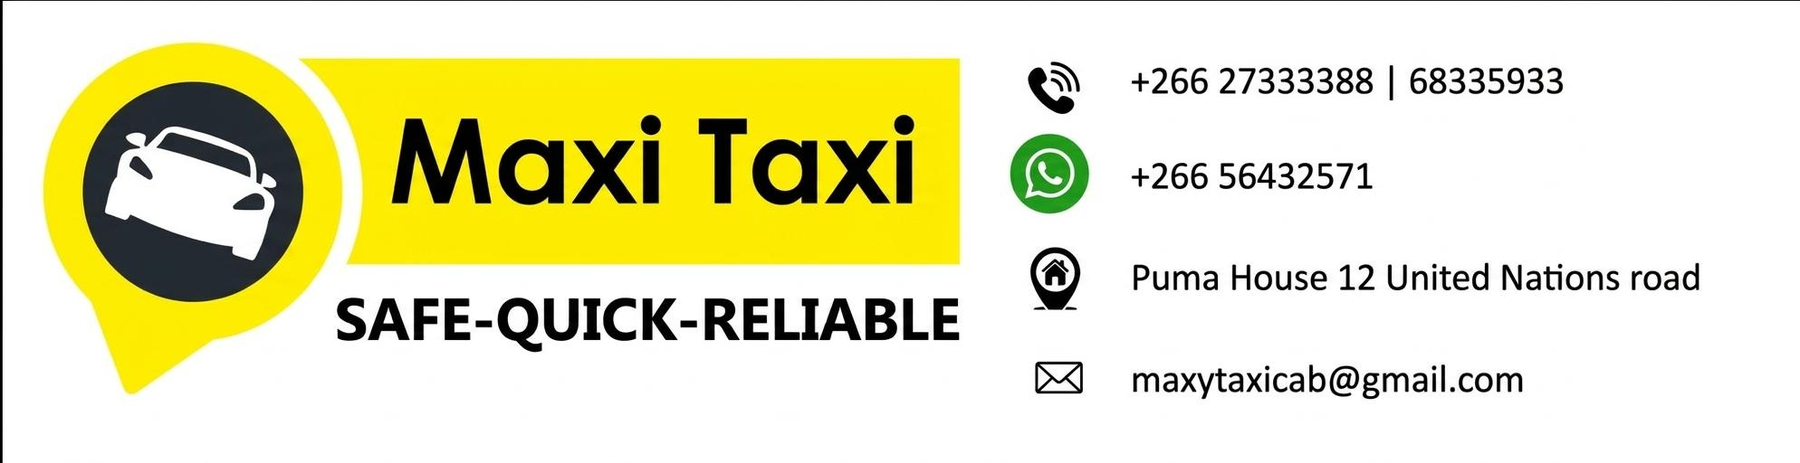
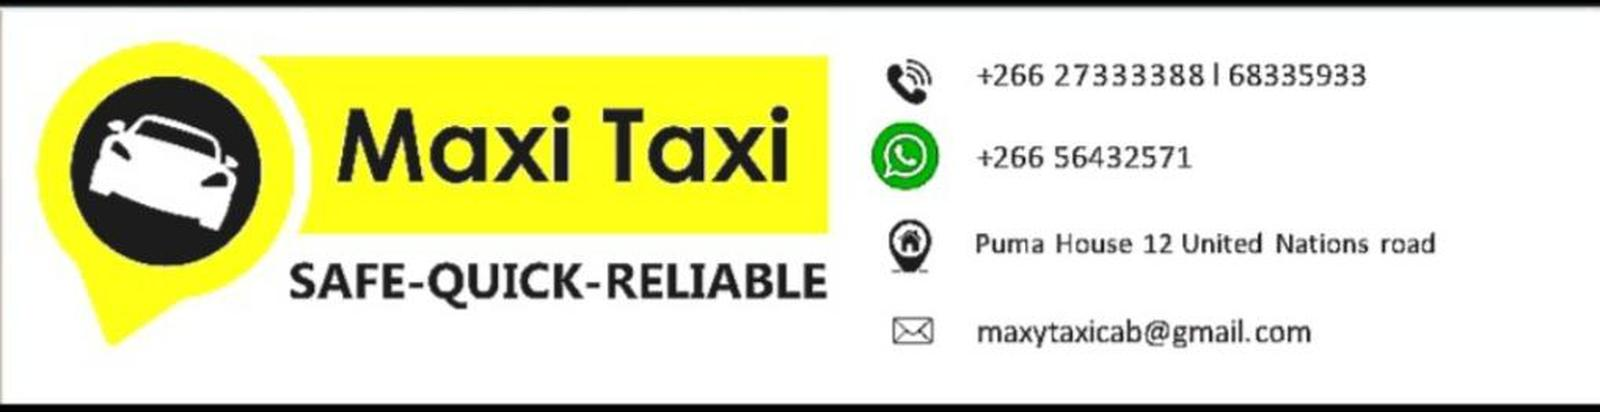
Add files via upload

diff --git a/app.py b/app.py
@@ -780,53 +780,29 @@ def create_pdf_buffer():
     return buffer
 
 def _pdf_letterhead_elements(styles=None):
-    """
-    Professional letterhead: logo left + contacts right + gold rule only.
-    Built in layout (not a cropped screenshot) so text is never cut off.
-    """
-    styles = styles or getSampleStyleSheet()
+    """Official Maxi Taxi letterhead image + gold line only (no black borders)."""
     elements = []
     base = os.path.dirname(__file__)
-
-    logo_path = None
-    for name in ("logo_clean.png", "logo_transparent.png", "logo_icon.jpg", "logo.jpg"):
-        p = os.path.join(base, name)
-        if os.path.exists(p):
-            logo_path = p
+    for name, w, h in (
+        ("letterhead_header.png", 186*mm, 42*mm),
+        ("letterhead_clean.jpg", 186*mm, 40*mm),
+        ("letterhead_banner.jpg", 186*mm, 36*mm),
+    ):
+        path = os.path.join(base, name)
+        if os.path.exists(path):
+            img = Image(path, width=w, height=h)
+            img.hAlign = "CENTER"
+            elements.append(img)
             break
-
-    contact_style = ParagraphStyle(
-        "ContactR", parent=styles["Normal"], fontSize=8, leading=11,
-        textColor=colors.HexColor("#333333"), alignment=TA_RIGHT,
-    )
-    contacts = Paragraph(
-        "+266 27333388 | 68335933<br/>"
-        "+266 56432571<br/>"
-        "Puma House 12 United Nations road<br/>"
-        "maxytaxicab@gmail.com",
-        contact_style,
-    )
-
-    if logo_path:
-        logo = Image(logo_path, width=72*mm, height=22*mm)
-        logo.hAlign = "LEFT"
-        row = Table([[logo, contacts]], colWidths=[100*mm, 80*mm])
-        row.setStyle(TableStyle([
-            ("VALIGN", (0, 0), (-1, -1), "MIDDLE"),
-            ("LEFTPADDING", (0, 0), (-1, -1), 0),
-            ("RIGHTPADDING", (0, 0), (-1, -1), 0),
-            ("TOPPADDING", (0, 0), (-1, -1), 0),
-            ("BOTTOMPADDING", (0, 0), (-1, -1), 2),
-        ]))
-        elements.append(row)
     else:
-        elements.append(Paragraph("<b>MAXY TAXI</b>", ParagraphStyle(
-            "LH", parent=styles["Heading1"], fontSize=14, alignment=TA_CENTER,
-        )))
-
+        styles = styles or getSampleStyleSheet()
+        elements.append(Paragraph(
+            "<b>MAXY TAXI</b>",
+            ParagraphStyle("LH", parent=styles["Heading1"], fontSize=14, alignment=TA_CENTER),
+        ))
     elements.append(HRFlowable(
-        width="100%", thickness=1.8, color=colors.HexColor("#f5a623"),
-        spaceBefore=2*mm, spaceAfter=4*mm,
+        width="100%", thickness=1.5, color=colors.HexColor("#f5a623"),
+        spaceBefore=1*mm, spaceAfter=4*mm,
     ))
     return elements
 
@@ -860,7 +836,7 @@ def generate_invoice_pdf(invoice, client=None):
     buffer = BytesIO()
     doc = SimpleDocTemplate(buffer, pagesize=A4,
                             rightMargin=12*mm, leftMargin=12*mm,
-                            topMargin=5*mm, bottomMargin=22*mm)
+                            topMargin=5*mm, bottomMargin=34*mm)
     styles = getSampleStyleSheet()
     elements = []
 
@@ -989,10 +965,7 @@ def generate_invoice_pdf(invoice, client=None):
     items_table = Table(items_data, colWidths=[105*mm, 28*mm, 47*mm])
     items_table.setStyle(_pdf_line_table_style())
     elements.append(items_table)
-    elements.append(Spacer(1, 6*mm))
-
-    elements.append(_pdf_banking_box(normal))
-    elements.append(Spacer(1, 6*mm))
+    elements.append(Spacer(1, 8*mm))
     elements.append(Paragraph(
         "Thank you for your Business",
         ParagraphStyle("ThanksInv", parent=styles["Normal"], fontSize=11, alignment=TA_CENTER,
@@ -1000,16 +973,7 @@ def generate_invoice_pdf(invoice, client=None):
     ))
 
     def _draw_inv_footer(canvas, doc_):
-        _pdf_draw_watermark(canvas, doc_)
-        canvas.saveState()
-        page_w, _ = A4
-        canvas.setStrokeColor(colors.HexColor("#f5a623"))
-        canvas.setLineWidth(1.5)
-        canvas.line(15*mm, 14*mm, page_w - 15*mm, 14*mm)
-        canvas.setFont("Helvetica", 8.5)
-        canvas.setFillColor(colors.HexColor("#555555"))
-        canvas.drawCentredString(page_w/2, 8*mm, "Maxi Taxi Transport - Maseru - Invoice")
-        canvas.restoreState()
+        _pdf_draw_page_chrome(canvas, doc_, "Maxi Taxi Transport - Maseru - Invoice")
 
     doc.build(elements, onFirstPage=_draw_inv_footer, onLaterPages=_draw_inv_footer)
     buffer.seek(0)
@@ -1019,7 +983,7 @@ def generate_quotation_pdf(quote, client=None):
     buffer = BytesIO()
     doc = SimpleDocTemplate(buffer, pagesize=A4,
                             rightMargin=12*mm, leftMargin=12*mm,
-                            topMargin=5*mm, bottomMargin=22*mm)
+                            topMargin=5*mm, bottomMargin=34*mm)
     styles = getSampleStyleSheet()
     elements = []
 
@@ -1140,16 +1104,7 @@ def generate_quotation_pdf(quote, client=None):
     ))
 
     def _draw_quote_footer(canvas, doc_):
-        _pdf_draw_watermark(canvas, doc_)
-        canvas.saveState()
-        page_w, _ = A4
-        canvas.setStrokeColor(colors.HexColor("#f5a623"))
-        canvas.setLineWidth(1.5)
-        canvas.line(15*mm, 14*mm, page_w - 15*mm, 14*mm)
-        canvas.setFont("Helvetica", 8.5)
-        canvas.setFillColor(colors.HexColor("#555555"))
-        canvas.drawCentredString(page_w/2, 8*mm, "Maxi Taxi Transport - Maseru - Quotation")
-        canvas.restoreState()
+        _pdf_draw_page_chrome(canvas, doc_, "Maxi Taxi Transport - Maseru - Quotation")
 
     doc.build(elements, onFirstPage=_draw_quote_footer, onLaterPages=_draw_quote_footer)
     buffer.seek(0)
@@ -1157,43 +1112,46 @@ def generate_quotation_pdf(quote, client=None):
 
 
 def _pdf_line_table_style():
-    """Shared professional table style for invoice / quote / receipt."""
+    """Clean table: gold header bar, no grid / no black lines (previous look)."""
     return TableStyle([
-        ("BACKGROUND", (0, 0), (-1, 0), colors.HexColor("#fff8e6")),
+        ("BACKGROUND", (0, 0), (-1, 0), colors.HexColor("#f5a623")),
         ("TEXTCOLOR", (0, 0), (-1, 0), colors.HexColor("#1a1a1a")),
-        ("LINEBELOW", (0, 0), (-1, 0), 1.2, colors.HexColor("#f5a623")),
-        ("BOX", (0, 0), (-1, -1), 0.6, colors.HexColor("#cccccc")),
-        ("LINEBELOW", (0, 1), (-1, -2), 0.5, colors.HexColor("#e0e0e0")),
-        ("BACKGROUND", (0, -1), (-1, -1), colors.HexColor("#fafafa")),
-        ("LINEABOVE", (0, -1), (-1, -1), 1.0, colors.HexColor("#f5a623")),
+        ("FONTNAME", (0, 0), (-1, 0), "Helvetica-Bold"),
+        ("ALIGN", (1, 0), (1, -1), "CENTER"),
+        ("ALIGN", (2, 0), (2, -1), "RIGHT"),
+        ("BACKGROUND", (0, 1), (-1, -2), colors.white),
+        ("BACKGROUND", (0, -1), (-1, -1), colors.white),
         ("TOPPADDING", (0, 0), (-1, -1), 7),
         ("BOTTOMPADDING", (0, 0), (-1, -1), 7),
-        ("LEFTPADDING", (0, 0), (-1, -1), 8),
-        ("RIGHTPADDING", (0, 0), (-1, -1), 8),
+        ("LEFTPADDING", (0, 0), (-1, -1), 6),
+        ("RIGHTPADDING", (0, 0), (-1, -1), 6),
         ("VALIGN", (0, 0), (-1, -1), "MIDDLE"),
+        # intentionally no BOX / no LINEBELOW grid
     ])
 
 
-def _pdf_banking_box(normal):
-    bank_box = Table(
-        [[Paragraph(
-            "<b>Banking details</b><br/>"
-            "Postbank &bull; Acc no 1017866800015 &bull; Branch code 500100<br/>"
-            "Account Name: Maxy Taxi Transport",
-            normal,
-        )]],
-        colWidths=[180*mm],
-    )
-    bank_box.setStyle(TableStyle([
-        ("BACKGROUND", (0, 0), (-1, -1), colors.HexColor("#f9f9f9")),
-        ("LINEBEFORE", (0, 0), (0, -1), 3, colors.HexColor("#f5a623")),
-        ("BOX", (0, 0), (-1, -1), 0.4, colors.HexColor("#e0e0e0")),
-        ("TOPPADDING", (0, 0), (-1, -1), 8),
-        ("BOTTOMPADDING", (0, 0), (-1, -1), 8),
-        ("LEFTPADDING", (0, 0), (-1, -1), 10),
-        ("RIGHTPADDING", (0, 0), (-1, -1), 10),
-    ]))
-    return bank_box
+def _pdf_draw_page_chrome(canvas, doc_, footer_label="Maxi Taxi Transport - Maseru"):
+    """Watermark + banking at bottom + gold footer line only."""
+    _pdf_draw_watermark(canvas, doc_)
+    canvas.saveState()
+    page_w, _ = A4
+    # Banking block near bottom (above gold line)
+    canvas.setFillColor(colors.HexColor("#1a1a1a"))
+    canvas.setFont("Helvetica-Bold", 8)
+    canvas.drawString(15*mm, 28*mm, "Banking details")
+    canvas.setFont("Helvetica", 8)
+    canvas.setFillColor(colors.HexColor("#333333"))
+    canvas.drawString(15*mm, 24*mm, "Postbank  ·  Acc no 1017866800015  ·  Branch 500100  ·  Maxy Taxi Transport")
+    # Gold line only — no black borders
+    canvas.setStrokeColor(colors.HexColor("#f5a623"))
+    canvas.setLineWidth(1.2)
+    canvas.line(15*mm, 18*mm, page_w - 15*mm, 18*mm)
+    canvas.setFont("Helvetica", 8)
+    canvas.setFillColor(colors.HexColor("#555555"))
+    canvas.drawCentredString(page_w/2, 12*mm, footer_label)
+    canvas.setFont("Helvetica", 7)
+    canvas.drawCentredString(page_w/2, 8*mm, "SAFE  ·  QUICK  ·  RELIABLE")
+    canvas.restoreState()
 
 
 def generate_receipt_pdf(receipt):
@@ -1202,7 +1160,7 @@ def generate_receipt_pdf(receipt):
     doc = SimpleDocTemplate(
         buffer, pagesize=A4,
         rightMargin=15*mm, leftMargin=15*mm,
-        topMargin=8*mm, bottomMargin=20*mm,
+        topMargin=8*mm, bottomMargin=34*mm,
     )
     styles = getSampleStyleSheet()
     elements = []
@@ -1283,25 +1241,14 @@ def generate_receipt_pdf(receipt):
     elements.append(tbl)
     elements.append(Spacer(1, 8*mm))
 
-    elements.append(_pdf_banking_box(normal))
-    elements.append(Spacer(1, 10*mm))
-
+    elements.append(Spacer(1, 8*mm))
     elements.append(Paragraph("Thank you for your Business", ParagraphStyle(
         "Thanks", parent=styles["Normal"], fontSize=11, alignment=TA_CENTER,
         textColor=colors.HexColor("#1a1a1a"),
     )))
 
     def _footer(canvas, doc_):
-        _pdf_draw_watermark(canvas, doc_)
-        canvas.saveState()
-        page_w, _ = A4
-        canvas.setStrokeColor(colors.HexColor("#f5a623"))
-        canvas.setLineWidth(1.5)
-        canvas.line(15*mm, 14*mm, page_w - 15*mm, 14*mm)
-        canvas.setFont("Helvetica", 8.5)
-        canvas.setFillColor(colors.HexColor("#555555"))
-        canvas.drawCentredString(page_w/2, 8*mm, "Maxi Taxi Transport - Maseru - Official Receipt")
-        canvas.restoreState()
+        _pdf_draw_page_chrome(canvas, doc_, "Maxi Taxi Transport - Maseru - Official Receipt")
 
     doc.build(elements, onFirstPage=_footer, onLaterPages=_footer)
     buffer.seek(0)
